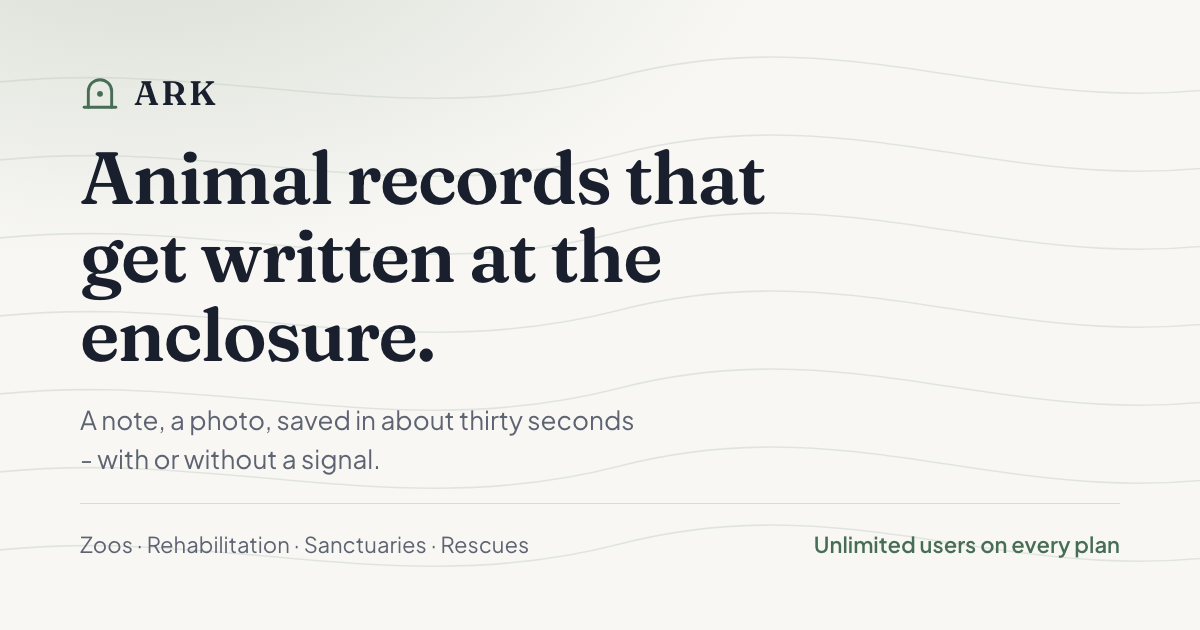
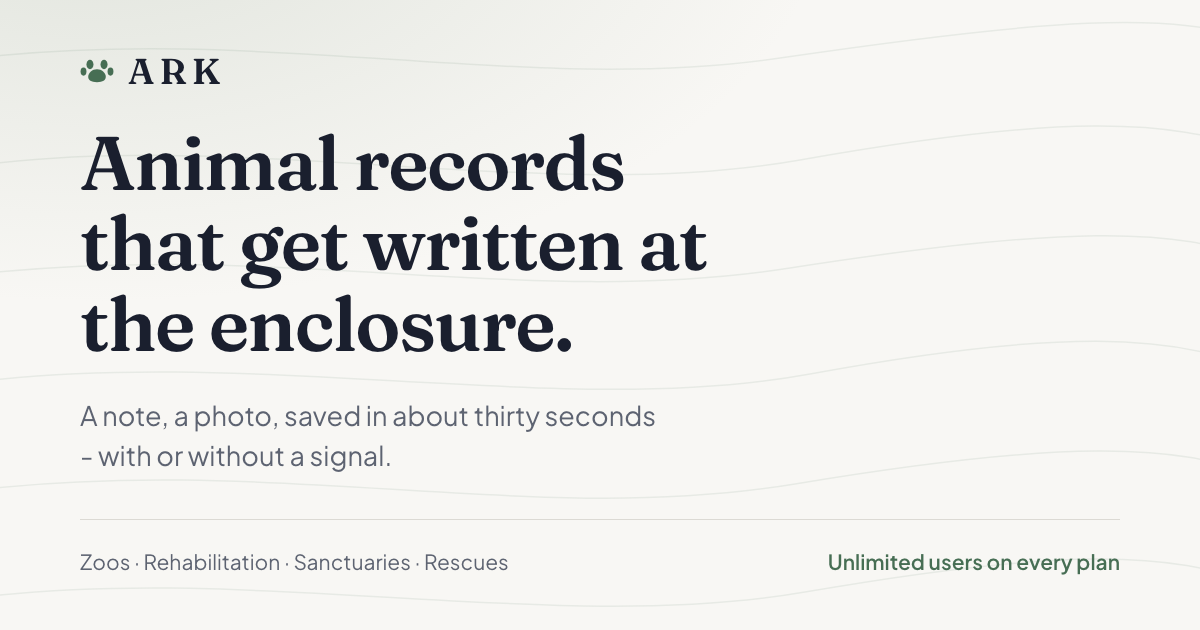
fix: adopt the app's paw mark and cut the page's self-commentary
The site had invented its own mark - an arch on a groundline, with a comment
arguing against paw prints - while the product ships a paw. Logo.astro and
favicon.svg now carry the app's own geometry from frontend/public/favicon.svg,
unchanged, on currentColor so one mark serves both colour schemes. The touch
icon and the OG card are regenerated from the same paw.

The copy had thirteen places where the page narrated its own honesty rather
than saying anything about the software: five "we are not going to..."
constructions, the no-customers point made three times over, and an "ARK in
numbers" block whose content was three dashes announcing its own emptiness.
All of it is gone, along with four more in the same register. Where the
underlying point was substantive it is now stated positively - ZIMS's
documented mobile guidance, capture without a connection, and the shared
species database ARK does not replace all survive, without the throat-clearing
around them. Every citation stays; only the commentary about the methodology
goes.

Page copy drops from 4,149 to 3,805 words. No horizontal overflow at 320, 375,
768, 1280 or 1920 under device emulation, no console errors on / or /404, and
every text pair still clears WCAG AA in both schemes.

diff --git a/src/components/MobileNav.tsx b/src/components/MobileNav.tsx
@@ -15,7 +15,7 @@ import { SECTION_LINKS } from "@/data/nav";
 /**
  * The whole of this site's JavaScript: the navigation a visitor gets below the
  * `md` breakpoint, where the header's inline links do not fit and the page
- * they would be navigating is over 33,000px tall.
+ * they would be navigating is over 31,000px tall.
  *
  * It is a Radix dialog rather than a `<details>` disclosure because a
  * disclosure cannot close on Escape, cannot close on an outside click, cannot
@@ -32,11 +32,12 @@ export default function MobileNav() {
    * the page. Radix locks body scroll for as long as the sheet is mounted, and
    * the sheet stays mounted through its exit animation, so a plain anchor
    * navigates against a page that cannot scroll and lands short of the
-   * section. Measured on the built site at 375px: /#pricing settles at 19,682px
-   * when nothing is in the way, at 19,341px through a closing sheet, and at
-   * 3,670px once the site's `scroll-behavior: smooth` has its animation cut off
-   * mid-flight. The last one leaves the visitor 16,000px from where they asked
-   * to go.
+   * section. Measured on the built site at 375px, where /#pricing settles at
+   * 19,298px with nothing in the way: through a closing sheet it lands 341px
+   * short, and once the site's `scroll-behavior: smooth` has had its animation
+   * cut off mid-flight it lands 16,012px short. The shortfalls are quoted
+   * rather than the landing positions, because the landing positions move with
+   * every edit to the copy above them and the shortfalls do not.
    *
    * So the navigation waits its turn. The click records the destination,
    * `onCloseAutoFocus` fires once the sheet has unmounted and released the

diff --git a/src/data/never.ts b/src/data/never.ts
@@ -43,9 +43,4 @@ export const NEVER: Promise_[] = [
     because:
       "One number per tier. No configurator, no line items to reconcile, no discovering at renewal that the thing you use daily was optional.",
   },
-  {
-    never: "Invent a customer we do not have",
-    because:
-      "There are no logos on this page and no testimonials, because ARK has no customers yet. When there are numbers worth publishing we will publish the real ones, starting from whatever they actually are.",
-  },
 ];

diff --git a/README.md b/README.md
@@ -88,7 +88,7 @@ scrolling. Split when a section earns its own URL, not before.
 
 This site shipped no JavaScript at all until it needed a navigation menu. Below
 the `md` breakpoint the header's inline links do not fit, which left a visitor on
-a phone with no way to navigate a page over 33,000px tall except to scroll it or
+a phone with no way to navigate a page over 31,000px tall except to scroll it or
 reach the footer. `src/components/MobileNav.tsx` is the fix, and it is the only
 hydrated thing here.
 
@@ -142,6 +142,13 @@ and the full table is at the bottom of `theme.css`. If you add a pair, measure
 it. One combination is measured and then _forbidden_: primary text on the accent
 fill is 3.41:1, so text on accent is always `--accent-foreground`.
 
+The mark is the product's, not the site's. `src/components/Logo.astro` and
+`public/favicon.svg` carry the paw from the ARK app's own
+`frontend/public/favicon.svg`, geometry unchanged; only the colour is different,
+so that one mark works in both schemes. The site does not get to design a
+different identity from the thing it is selling - if the app's mark changes,
+this one changes with it.
+
 Motion is CSS only, including the menu's - the sheet's enter and exit are
 `tw-animate-css` keyframes that Radix toggles by `data-state`, not animation
 driven from JavaScript. Section reveals use scroll-driven `animation-timeline:
@@ -176,10 +183,11 @@ Two habits worth keeping:
   the source itself and not reconstructed from a summary.
 
 There is no social proof on the site, because ARK has no customers yet: no
-logos, no testimonials, no "trusted by". `src/components/LiveCounters.astro` is
-a marked placeholder for real running totals later, with the wiring instructions
-in its own comment. It renders a dash rather than a number. Do not put a number
-in it until there is one.
+logos, no testimonials, no "trusted by", and no running totals. There is also no
+paragraph pointing that out. A page earns trust by being specific about what the
+software does, not by narrating its own honesty, and the two read very
+differently to someone deciding whether to spend their rescue's money here.
+Build a figures section when the figures exist and are measured.
 
 ## Screenshots
 
